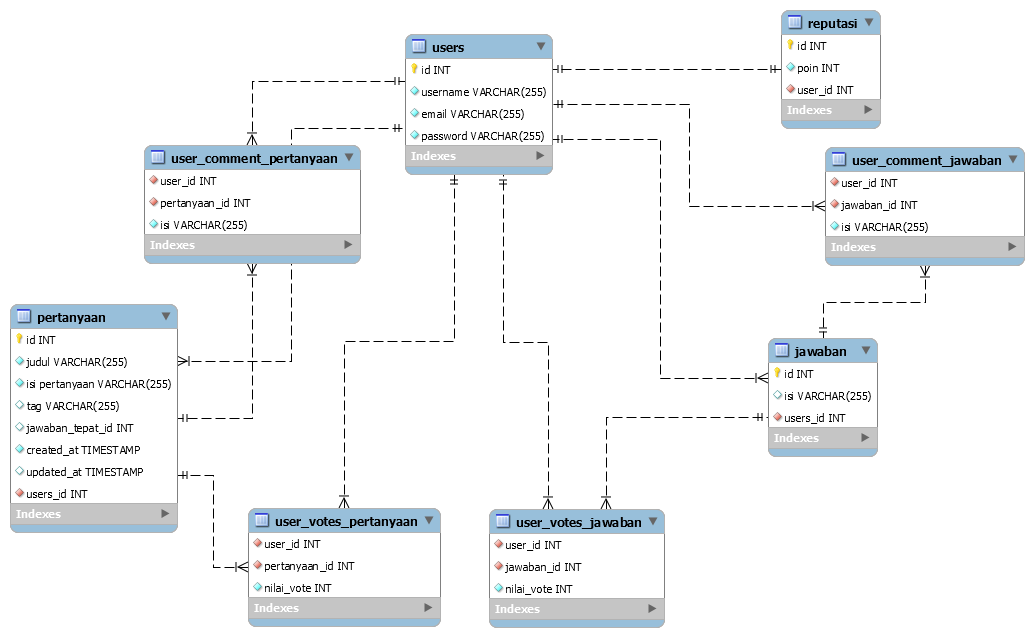
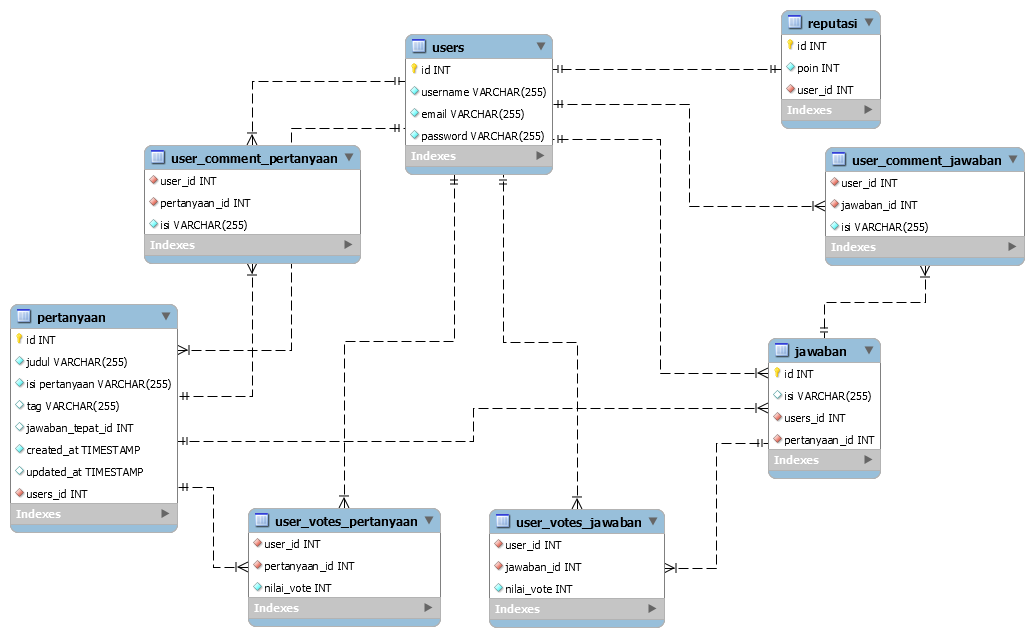
tambah komentar jawaban, up vote down vote jawaban

diff --git a/app/Http/Controllers/JawabanController.php b/app/Http/Controllers/JawabanController.php
@@ -3,7 +3,10 @@
 namespace App\Http\Controllers;
 
 use App\Jawaban;
+use App\User;
 use Illuminate\Http\Request;
+use Illuminate\Support\Facades\Auth;
+use Illuminate\Support\Facades\DB;
 
 class JawabanController extends Controller
 {
@@ -26,9 +29,10 @@ class JawabanController extends Controller
      *
      * @return \Illuminate\Http\Response
      */
-    public function create()
+    public function create($id)
     {
-        
+        return $id;
+        //return view('jawaban.create', compact('id'));
     }
 
     /**
@@ -64,7 +68,8 @@ class JawabanController extends Controller
     {
         $data = Jawaban::find($id);
 
-        return view('jawaban.edit');
+        //return view('jawaban.edit', compact('data'));
+        return $data;
     }
 
     /**
@@ -89,6 +94,79 @@ class JawabanController extends Controller
     public function destroy($id)
     {
         Jawaban::destroy($id);
+        return redirect('/');
+    }
+
+    public function createKomentar($id)
+    {
+        $data = Jawaban::find($id);
+        return view('jawaban.form_komentar');
+    }
+
+    public function storeKomentar(Request $request)
+    {
+        DB::table('user_comment_jawaban')->insert($request->all());
+        return redirect('/');
+    }
+
+    public function upVote($id)
+    {
+        DB::table('user_votes_jawaban')->insert([
+            'user_id' => Auth::user()->id,
+            'jawaban_id' => $id,
+            'nilai_vote' => '1'
+        ]);
+
+
+        $users_id = Jawaban::find($id)->users_id;
+
+        $rep = DB::table('reputasi')->where('user_id', $users_id)->first();
+
+
+
+        if (!$rep) {
+            $rep = DB::table('reputasi')->insert([
+                'poin' => '0',
+                'user_id' => $users_id
+            ]);
+        }
+
+        DB::table('reputasi')->where('user_id', $users_id)->update([
+            'poin' => $rep->poin + 10
+        ]);
+
+        return redirect('/');
+    }
+
+
+    public function downVote($id)
+    {
+        DB::table('user_votes_jawaban')->insert([
+            'user_id' => '1',
+            'jawaban_id' => $id,
+            'nilai_vote' => '0'
+        ]);
+
+
+        $users_id = Auth::user()->id;
+
+        $rep = DB::table('reputasi')->where('user_id', $users_id)->first();
+
+        if (!$rep) {
+            $rep = DB::table('reputasi')->insert([
+                'poin' => '0',
+                'user_id' => $users_id
+            ]);
+        }
+
+        if ($rep->poin >= 15) {
+            DB::table('reputasi')->where('user_id', $users_id)->update([
+                'poin' => $rep->poin - 1
+            ]);
+        }
+
+
+
         return redirect('/');
     }
 }

diff --git a/routes/web.php b/routes/web.php
@@ -29,4 +29,14 @@ Auth::routes();
 
 Route::get('/home', 'HomeController@index')->name('home');
 
-Route::resource('/jawaban','JawabanController');
+//create, store, index, show, edit, update, delete
+Route::get('/jawaban/create/{pertanyaan_id}','JawabanController@create');
+Route::post('/jawaban','JawabanController@store');
+Route::get('/jawaban/{pertanyaan_id}/edit','JawabanController@edit');
+Route::put('/jawaban/{pertanyaan_id}','JawabanController@update');
+Route::delete('/jawaban/{pertanyaan_id}','JawabanController@destroy');
+
+Route::post('/jawaban/store_komentar','JawabanController@storeKomentar');
+
+Route::get('/jawaban/upvote/{jawaban_id}','JawabanController@upVote');
+Route::get('/jawaban/downvote/{jawaban_id}','JawabanController@downVote');

diff --git a/resources/views/jawaban/create.blade.php b/resources/views/jawaban/create.blade.php
@@ -1,0 +1,19 @@
+@extends('layouts.master')
+
+@section('title','Beri Jawaban')
+
+@section('content')
+
+
+<form action="{{ url('/jawaban') }}" method="post">
+    @csrf
+    <div class="form-group">
+        <label for="judul">Isi</label>
+        <input name="isi" type="text" class="form-control" id="judul">
+    </div>
+    <input type="hidden" name="users_id" value="1">
+    <button type="submit" class="btn btn-primary">Simpan</button>
+</form>
+
+
+@endsection

diff --git a/database/migrations/2020_07_09_115848_create_jawaban_table.php b/database/migrations/2020_07_09_115848_create_jawaban_table.php
@@ -18,6 +18,8 @@ class CreateJawabanTable extends Migration
             $table->string('isi');
             $table->unsignedBigInteger('users_id');
             $table->foreign('users_id')->references('id')->on('users');
+            $table->unsignedBigInteger('pertanyaan_id');
+            $table->foreign('pertanyaan_id')->references('id')->on('pertanyaan');
             $table->timestamps();
         });
     }

diff --git a/app/Http/Middleware/VerifyCsrfToken.php b/app/Http/Middleware/VerifyCsrfToken.php
@@ -12,6 +12,8 @@ class VerifyCsrfToken extends Middleware
      * @var array
      */
     protected $except = [
-        //
+        'jawaban',
+        'jawaban/*'
+
     ];
 }
